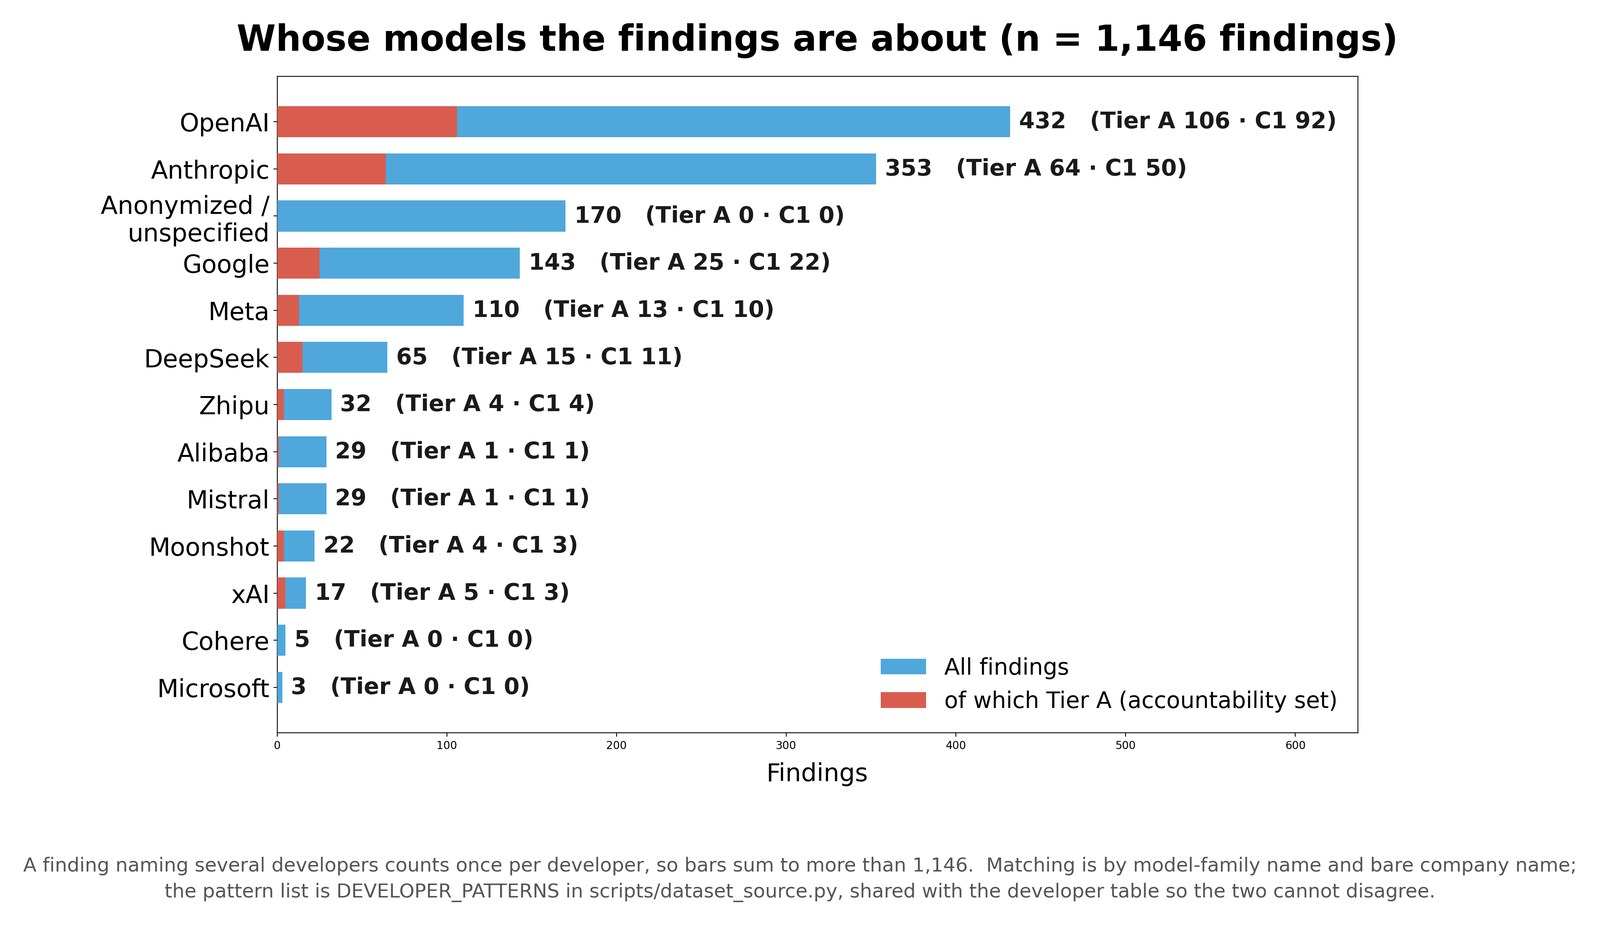
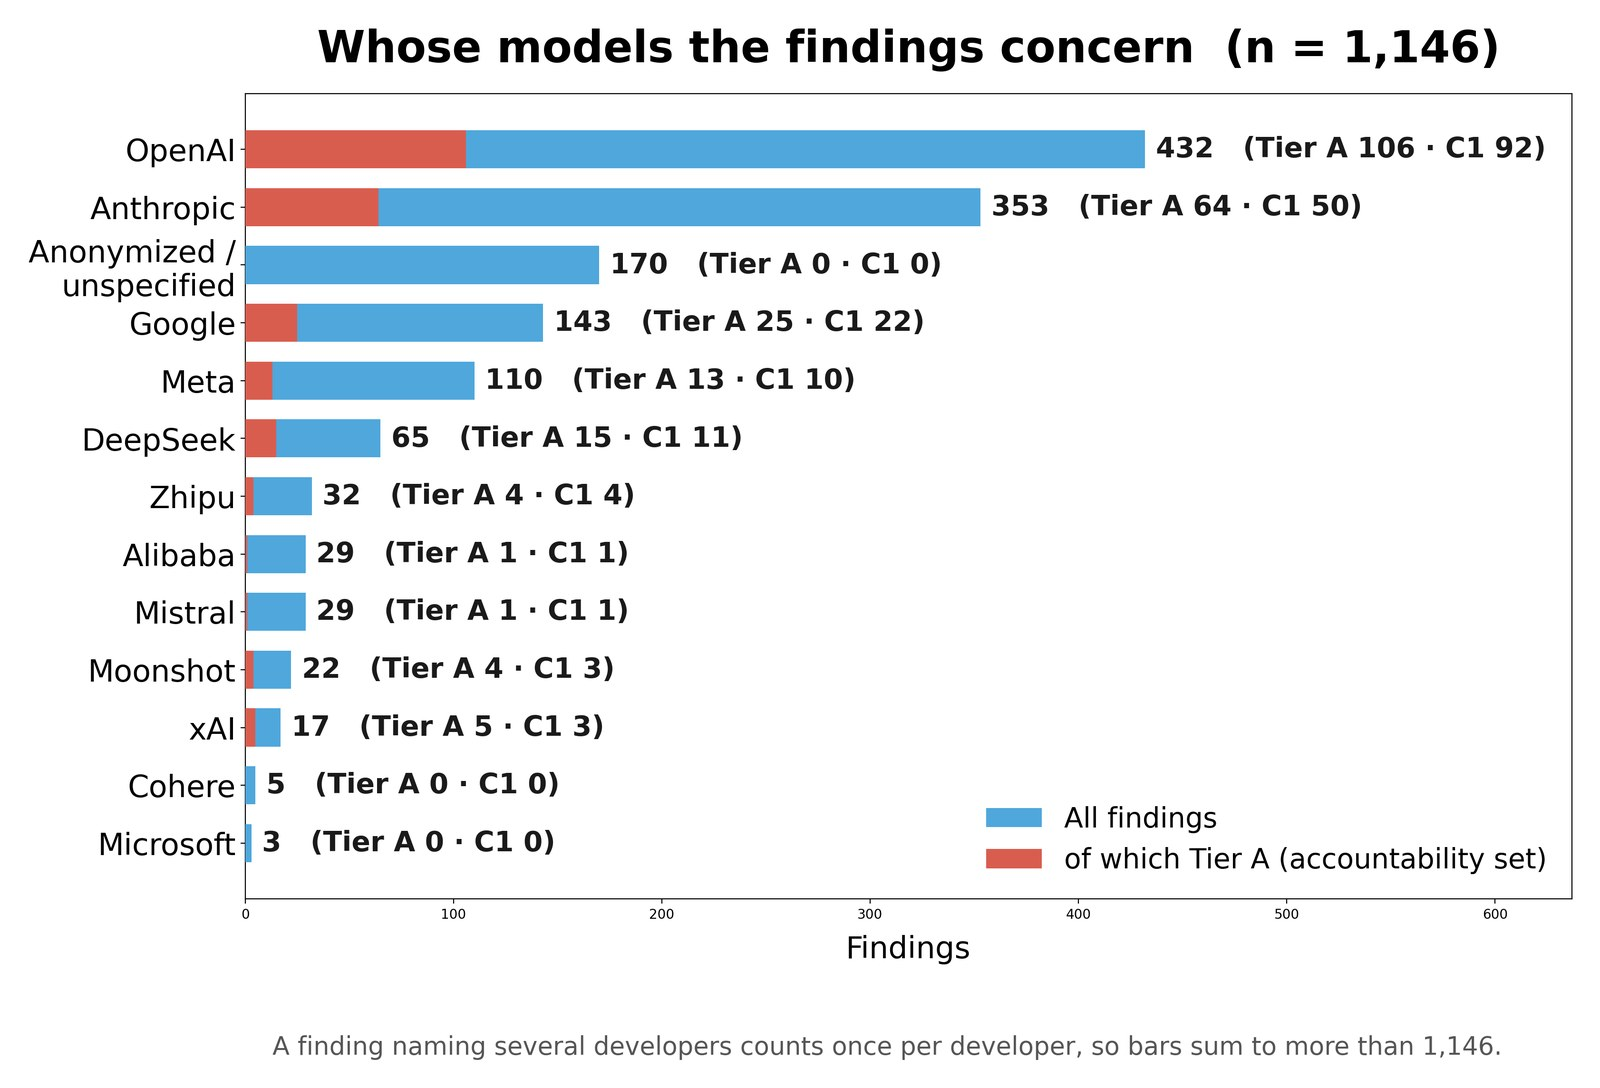
Shorten the developer chart's title and note
The title said 'findings' twice - 'Whose models the findings are about
(n = 1,146 findings)' - and is now 'Whose models the findings concern
(n = 1,146)'.

The note under the chart ran to four lines and spelled out the matching
rule and the name of the file holding it. That belongs in the figure
caption in the paper, where a reader looks for it, and it is already
there. One line remains on the chart: the caveat a reader needs to read
the bars correctly, that a finding naming several developers counts once
per developer.

Canvas drops from 4131x2387 to 3365x2289 as a result. verify_charts PASS.

diff --git a/research/scripts/fig_developer.py b/research/scripts/fig_developer.py
@@ -82,21 +82,19 @@ gap = 0.014 * W
 ax.set_xlim(0, mx * W / max(W - gap - T, 1.0) * 1.02)
 ax.grid(axis="y", visible=False)
 ax.set_xlabel("Findings", fontsize=23, labelpad=10)
-ax.set_title(f"Whose models the findings are about (n = {len(R):,} findings)",
+# "...the findings are about (n = 1,146 findings)" said "findings" twice in one line.
+ax.set_title(f"Whose models the findings concern  (n = {len(R):,})",
              pad=24, fontsize=33, fontweight="bold")
 ax.legend(fontsize=21, loc="lower right", frameon=False)
 
 p = os.path.join(OUT, "02_findings_per_model_developer.png")
-# The note goes BELOW the axes in figure coordinates. Placed inside the axes it landed on top of
-# the x tick labels and the axis title, because the bottom of the data area is exactly where the
-# axis furniture lives. bbox_inches="tight" expands the canvas to include it.
-fig.text(0.5, -0.035,
-         "A finding naming several developers counts once per developer, so bars sum to more than "
-         f"{len(R):,}.  Matching is by model-family name and bare company name;\n"
-         "the pattern list is DEVELOPER_PATTERNS in scripts/dataset_source.py, shared with the "
-         "developer table so the two cannot disagree.",
-         fontsize=18, color="#555555", va="top", ha="center", linespacing=1.5,
-         transform=fig.transFigure)
+# One line, below the axes in figure coordinates. Inside the axes it printed on top of the x
+# tick labels and the axis title. The matching rule used to be spelled out here too; it lives in
+# the figure caption in the paper instead, which is where a reader looks for it.
+fig.text(0.5, -0.02,
+         f"A finding naming several developers counts once per developer, so bars sum to more "
+         f"than {len(R):,}.",
+         fontsize=19, color="#555555", va="top", ha="center", transform=fig.transFigure)
 fig.savefig(p, bbox_inches="tight", pad_inches=0.3)
 plt.close(fig)
 print(f"wrote {p}")
